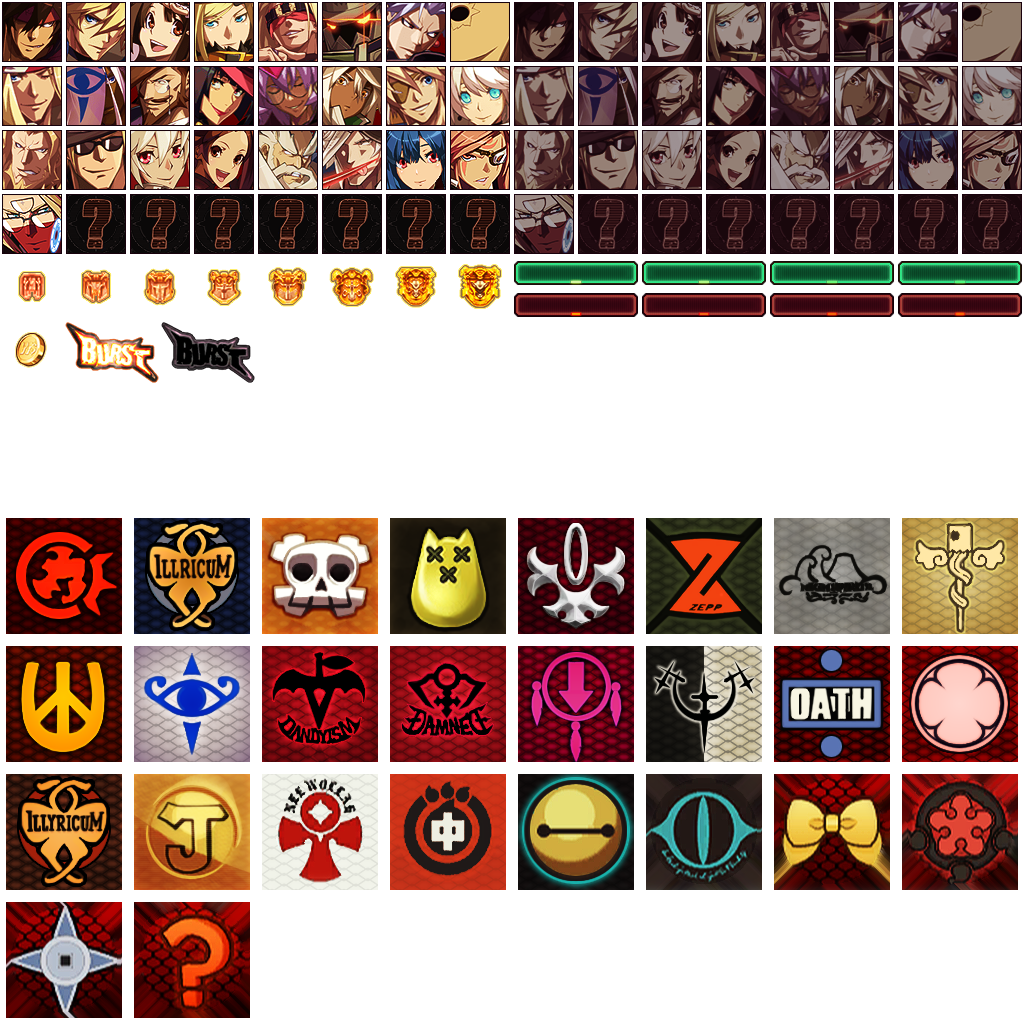
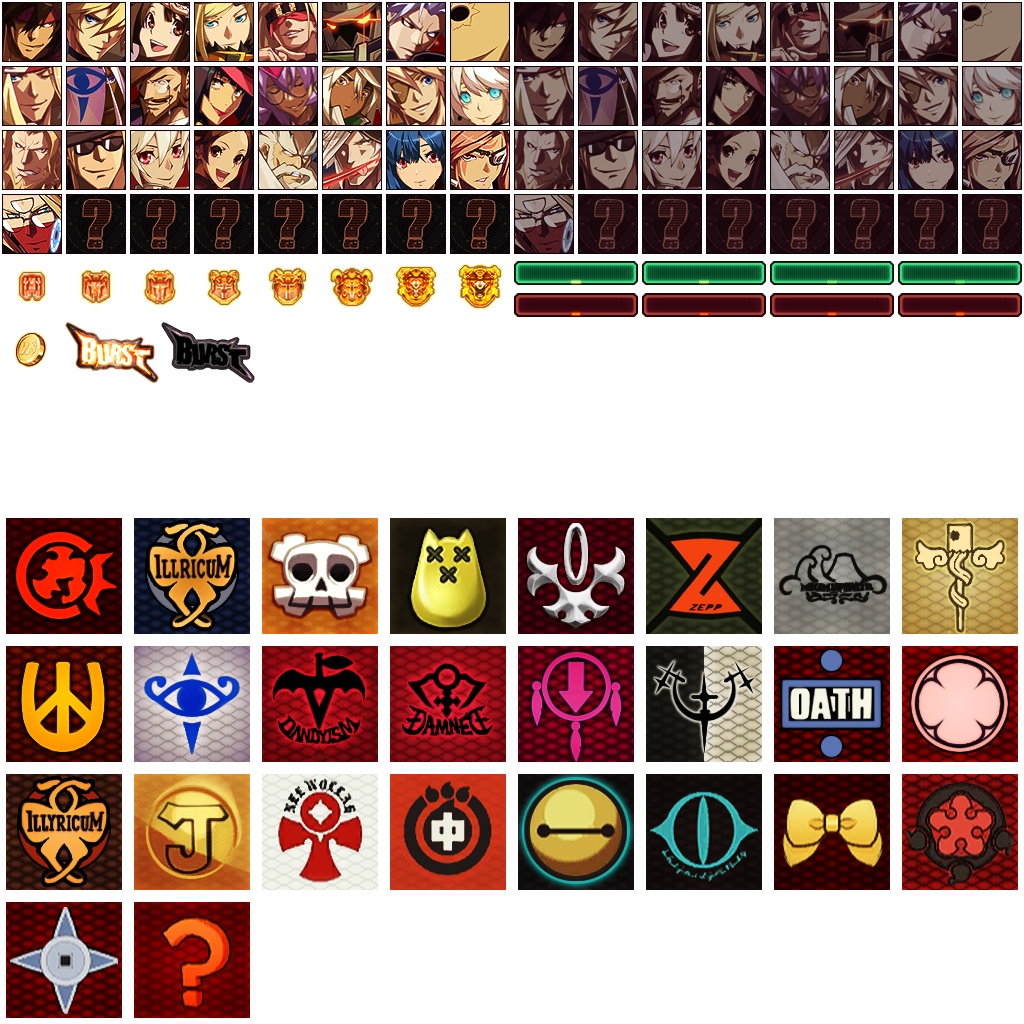
Finalizing trademarks

Changed region(s): [[0.625, 0.75, 1.0, 0.875], [0.0, 0.875, 0.25, 1.0], [0.625, 0.75, 0.6562, 0.7812]]

diff --git a/src/main/kotlin/application/player/PlayerView.kt b/src/main/kotlin/application/player/PlayerView.kt
@@ -122,7 +122,7 @@ class PlayerView(override val root: Parent) : Fragment() {
         if (session.randomValues) applyRandomData(p) else
             if (p.getSteamId() > 0L) {
                 wholeThing.opacity = 1.0
-                character.viewport = getCharacterTrademark(p.getData().characterId, p.isIdle())
+                character.viewport = getCharacterTrademark(p.getData().characterId)
 
                 handle.text = p.getNameString()
                 if (p.isIdle()) handle.textFill = c("#3befaa88")
@@ -175,7 +175,8 @@ class PlayerView(override val root: Parent) : Fragment() {
         val winsInt = Random.nextInt(44)
         val cabId = Random.nextInt(5)
         wholeThing.opacity = 1.0
-        character.viewport = Rectangle2D(Random.nextInt(8) * 64.0, Random.nextInt(4) * 64.0, 64.0, 64.0)
+        character.viewport = Rectangle2D(Random.nextInt(8) * 128.0, 512 + Random.nextInt(4) * 128.0, 128.0, 128.0)
+//        character.viewport = Rectangle2D(Random.nextInt(8) * 64.0, Random.nextInt(4) * 64.0, 64.0, 64.0)
         handle.text = generateRandomName()
         statusBar.maxWidth = 335.0 * (loadingInt * 0.01)
         bounty1.text = "$bountyStr W$"

diff --git a/src/main/kotlin/application/match/MatchView.kt b/src/main/kotlin/application/match/MatchView.kt
@@ -9,6 +9,7 @@ import javafx.scene.image.ImageView
 import javafx.scene.layout.StackPane
 import session.Character.NULL
 import session.Character.getCharacterPortrait
+import session.Character.getCharacterTrademark
 import session.Match
 import session.Session
 import tornadofx.*
@@ -130,7 +131,7 @@ class MatchView(override val root: Parent) : Fragment() {
                 timer.text = m.getTimer().toString()
                 cabinet.text = m.getCabinetString()
 
-                character.p1.setViewport(getCharacterPortrait(m.getCharacter(P1)))
+                character.p1.setViewport(getCharacterTrademark(m.getCharacter(P1)))
                 handle.p1.text = m.getHandleString(P1)
                 tension.p1.text = m.getTensionString(P1)
                 health.p1.text = m.getHealthString(P1)

diff --git a/src/main/kotlin/session/Character.kt b/src/main/kotlin/session/Character.kt
@@ -129,7 +129,8 @@ object Character {
         }
     }
 
-    fun getCharacterTrademark(byte: Byte = -0x1, idle: Boolean = false): Rectangle2D {
+    fun getCharacterTrademark(integer: Int) = getCharacterPortrait(integer.toByte())
+    fun getCharacterTrademark(byte: Byte = -0x1): Rectangle2D {
         when (byte) {
             NULL -> return Rectangle2D(128.0, 896.0, 128.0, 128.0)
             SO -> return Rectangle2D(0.0, 512.0, 128.0, 128.0)

diff --git a/src/main/kotlin/session/Session.kt b/src/main/kotlin/session/Session.kt
@@ -23,7 +23,7 @@ class Session: Controller() {
     var clientMatch = Match()
 
     var consoleLog = arrayListOf("C: GearNet started")
-    var randomValues = false
+    var randomValues = true
 
     fun updatePlayers(): Boolean {
         var somethingChanged = false
